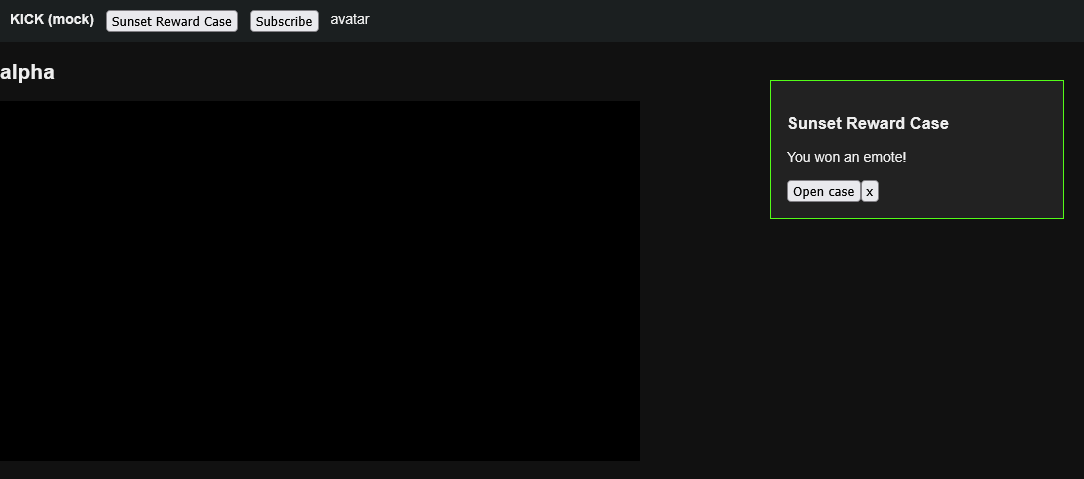
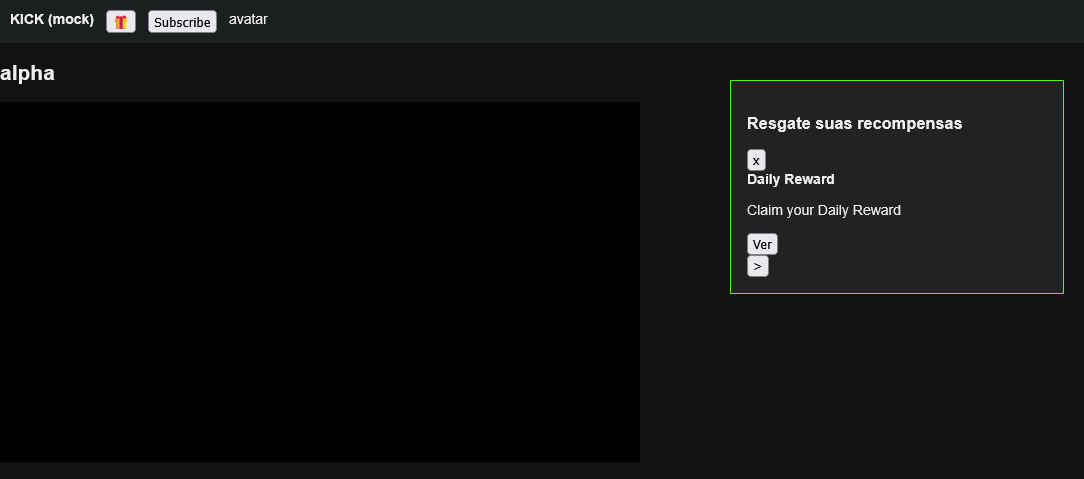
feat: verified against real Kick - rewards carousel, Resgate/Resgatar, 18+ gate, panel auto-close
- handle the rewards dialog carousel (Sunset Reward Case -> Daily Reward)
- recognise pt-BR wording (Resgate sua recompensa / Resgatar), skip aria-disabled buttons
- dismiss the 18+ gate outside dialogs; close the panel when nothing is claimable
- mock/e2e now mirror the real dialog (13 checks); add live_session dev tool

Changed region(s): [[0.6697, 0.2338, 0.8828, 0.5846], [0.0913, 0.0, 0.3349, 0.0877], [0.0, 0.1461, 0.0609, 0.1754]]

diff --git a/src/content.js b/src/content.js
@@ -137,13 +137,10 @@
     for (const b of document.querySelectorAll("button, [role=button]")) {
       if (!visible(b) || disabled(b)) continue;
       const t = labelOf(b);
-      if (t.length < 40 && C.matureWords.test(t) && !C.denyWords.test(t)) {
-        const scope = b.closest("[role=dialog], [class*=overlay], [class*=mature], [class*=modal]");
-        if (scope && /mature|18\+|age/i.test(scope.innerText || "")) {
-          click(b);
-          log(`Dismissed mature-content gate ("${t}")`);
-          return true;
-        }
+      if (t.length < 50 && C.matureWords.test(t) && !C.denyWords.test(t)) {
+        click(b);
+        log(`Dismissed mature-content gate ("${t}")`);
+        return true;
       }
     }
     return false;
@@ -194,6 +191,7 @@
     }
     // 2) standalone claim buttons that are themselves reward-flavoured
     for (const b of clickables(document)) {
+      if (b.getAttribute("aria-haspopup")) continue; // that's a panel trigger, handled by findTrigger()
       const t = labelOf(b);
       if (t.length < 60 && C.claimWords.test(t) && !C.denyWords.test(t)
           && (C.rewardWords.test(t) || C.rewardWords.test(hintOf(b)))) return { el: b, where: "inline", t };
@@ -216,14 +214,24 @@
     return null;
   }
 
-  function closeOurDialogs() {
-    for (const d of dialogs()) {
-      if (!C.rewardWords.test(d.innerText || "")) continue;
-      const x = [...d.querySelectorAll("button, [role=button]")].find((b) =>
-        /close|fechar|dismiss|×|✕|^x$/i.test(labelOf(b)));
-      if (x) click(x);
+  // The rewards dialog on kick.com is a carousel (Sunset Reward Case -> Daily Reward -> ...).
+  function rewardDialog() {
+    return dialogs().find((d) => C.rewardWords.test(d.innerText || "") && !/cookie/i.test(d.innerText || ""));
+  }
+  function closeRewardDialog() {
+    const d = rewardDialog();
+    if (d) {
+      const x = [...d.querySelectorAll("button, [role=button]")].find((b) => C.closeWords.test(labelOf(b)) ||
+        C.closeWords.test(b.getAttribute("aria-label") || ""));
+      if (x) { click(x); return; }
     }
     document.dispatchEvent(new KeyboardEvent("keydown", { key: "Escape", bubbles: true }));
+  }
+  function nextSlide(d) {
+    const n = [...d.querySelectorAll("button, [role=button]")].find((b) =>
+      visible(b) && !disabled(b) && C.nextSlideWords.test(b.getAttribute("aria-label") || ""));
+    if (n) click(n);
+    return !!n;
   }
 
   async function scanClaims() {
@@ -232,16 +240,28 @@
       if (Date.now() - run.lastClaimAt < 4000 || claimed.has(found.el)) return;
       claimed.add(found.el);
       run.lastClaimAt = Date.now();
+      const title = norm((found.el.closest("[role=dialog]") || document.body).innerText).slice(0, 60);
       click(found.el);
-      await log(`Clicked claim button "${found.t}" (${found.where})`);
-      await bump("claimedCount");
-      setTimeout(closeOurDialogs, 12000); // let the roulette animation finish
+      await log(`Clicked claim button "${found.t}" (${found.where}) | ${title}`);
+      if (found.where === "dialog") await bump("claimedCount");
+      run.slidesSeen = 0;
+      setTimeout(closeRewardDialog, 12000); // let the opening animation finish
       return;
     }
-    if (dialogs().some((d) => C.rewardWords.test(d.innerText || ""))) return; // already open, nothing claimable
+    const d = rewardDialog();
+    if (d) {
+      // Panel is open but nothing claimable on this slide: look at the other slides, then close it.
+      run.slidesSeen = (run.slidesSeen || 0) + 1;
+      if (run.slidesSeen <= 6 && nextSlide(d)) return;
+      await log("Rewards panel: nothing claimable right now (locked or already claimed); closing.");
+      run.slidesSeen = 0;
+      closeRewardDialog();
+      return;
+    }
     const trig = findTrigger();
     if (trig) {
       run.triggerClicks.set(trig.key, Date.now());
+      run.slidesSeen = 0;
       click(trig.el);
       await log(`Opened rewards panel via "${trig.key.slice(0, 40)}"`);
     }
@@ -320,6 +340,8 @@
     if (msg.type === "claimNow") return scanClaims().then(() => ({ ok: true }));
     if (msg.type === "dump") return Promise.resolve(dump());
   });
+
+  // @test-hook
 
   loadSettings().then(() => { if (S.enabled) log(`Active on ${currentSlug() || location.pathname}`); });
 })();

diff --git a/src/selectors.js b/src/selectors.js
@@ -19,14 +19,18 @@ window.KAW_CFG = {
 
   // Text on the button that actually claims / opens.
   claimWords:
-    /^\s*(claim|collect|open|redeem|get reward|resgatar|coletar|abrir|reivindicar|reclamar|recoger|abrir caja)\b/i,
+    /^\s*(claim|collect|open|redeem|get reward|resgatar|resgate|coletar|abrir|reivindicar|reclamar|recoger|abrir caja)\b/i,
 
   // Never click anything whose text matches this.
   denyWords:
     /(subscribe|subscription|gift|buy|purchase|follow|assinar|comprar|presente|donate|tip|cancel|report|block|ban)/i,
 
   // "Are you 18+?" style gates in front of the video.
-  matureWords: /(start watching|i am 18|i'm 18|18\+|continue|confirm|iniciar|tenho 18)/i,
+  matureWords: /(i am 18|i'm 18|18\+|18 anos|tenho 18|start watching|iniciar)/i,
+
+  // Carousel arrow inside the rewards dialog (Sunset Case -> Daily Reward -> ...).
+  nextSlideWords: /(pr[oó]xim[ao]|next)/i,
+  closeWords: /^(close|fechar|dismiss)$/i,
 
   // Hint attributes searched for reward triggers.
   triggerAttrs: ["aria-label", "title", "data-testid", "id", "class", "alt"],
@@ -41,6 +45,6 @@ window.KAW_CFG = {
   liveCheckMs: 20000,
   offlineChecksBeforeSwitch: 2,
   claimScanMs: 6000,
-  triggerCooldownMs: 120000,
+  triggerCooldownMs: 300000,
   stallReloadMs: 90000,
 };

diff --git a/scripts/live_session.py b/scripts/live_session.py
@@ -1,0 +1,64 @@
+"""Interactive Firefox session on the REAL kick.com using a dedicated profile (.test-profile).
+
+Command channel: write a line to <ctl>/cmd.txt, read the answer from <ctl>/out.txt.
+ commands: goto <url> | enable | disable | dump | claim | log | shot <name> | url | quit
+"""
+import json, subprocess, sys, time
+from pathlib import Path
+from selenium import webdriver
+from selenium.webdriver.firefox.options import Options
+
+ROOT = Path(__file__).resolve().parent.parent
+CTL = Path(sys.argv[1]); CTL.mkdir(parents=True, exist_ok=True)
+CMD, OUT = CTL / "cmd.txt", CTL / "out.txt"
+
+
+def say(x):
+    OUT.write_text(str(x), encoding="utf-8")
+
+
+subprocess.run([sys.executable, str(ROOT / "scripts/build.py"), "--live"], check=True)
+o = Options()
+o.binary_location = r"C:\Program Files\Mozilla Firefox\firefox.exe"
+o.set_preference("browser.startup.page", 3)  # keep session cookies/tabs across restarts
+o.add_argument("-profile"); o.add_argument(str(ROOT / ".test-profile"))
+d = webdriver.Firefox(options=o)
+d.install_addon(str(ROOT / "dist-live"), temporary=True)
+d.get("https://kick.com")
+say("ready")
+
+
+def hook(msg):
+    d.execute_script(
+        "window.__r=null; window.addEventListener('message',e=>{if(e.data&&e.data.kawResult)window.__r=e.data.kawResult});"
+        "window.postMessage(arguments[0], '*')", msg)
+    for _ in range(40):
+        r = d.execute_script("return window.__r")
+        if r: return r
+        time.sleep(0.25)
+    return "no answer from content script"
+
+
+while True:
+    if not CMD.exists():
+        time.sleep(0.5); continue
+    line = CMD.read_text(encoding="utf-8").strip(); CMD.unlink()
+    try:
+        c, _, a = line.partition(" ")
+        if c == "quit": break
+        elif c == "goto": d.get(a); time.sleep(4); say(d.current_url)
+        elif c == "reload":  # rebuild + reinstall the extension in the running browser (keeps login)
+            subprocess.run([sys.executable, str(ROOT / "scripts/build.py"), "--live"], check=True)
+            d.install_addon(str(ROOT / "dist-live"), temporary=True); d.refresh(); time.sleep(4); say("reloaded")
+        elif c == "eval": say(json.dumps(d.execute_script("return (" + a + ")"), ensure_ascii=False, indent=1))
+        elif c == "url": say(d.current_url + " | " + d.title)
+        elif c in ("enable", "disable"):
+            r = hook({"kawTest": "set", "data": {"enabled": c == "enable"}}); say(r["storage"]["enabled"] if isinstance(r, dict) else r)
+        elif c == "dump": say(json.dumps(hook({"kawTest": "dump"}), indent=1, ensure_ascii=False))
+        elif c == "claim": r = hook({"kawTest": "claim"}); say(json.dumps(r["storage"].get("log", [])[-8:], ensure_ascii=False) if isinstance(r, dict) else r)
+        elif c == "log": r = hook({"kawTest": "get"}); say(json.dumps(r["storage"].get("log", [])[-15:], ensure_ascii=False) if isinstance(r, dict) else r)
+        elif c == "shot": d.save_screenshot(str(CTL / f"{a or 'shot'}.png")); say("saved")
+        else: say("unknown command")
+    except Exception as e:
+        say(f"ERROR {type(e).__name__}: {e}")
+d.quit()

diff --git a/tests/mock_kick.py b/tests/mock_kick.py
@@ -12,17 +12,22 @@ PAGE = """<!doctype html><html><head><title>{slug} - Kick (mock)</title><style>
 body{{font:14px sans-serif;background:#111;color:#eee;margin:0}} header{{display:flex;gap:12px;padding:10px;background:#1b1f20}}
 #dlg{{position:fixed;top:80px;right:20px;background:#222;padding:16px;border:1px solid #53fc18;width:260px}}
 video{{width:640px;height:360px;background:#000}}</style></head><body>
-<header><b>KICK (mock)</b><button aria-label="Sunset Reward Case" id="case">Sunset Reward Case</button>
+<header><b>KICK (mock)</b><button aria-label="Resgate sua recompensa" aria-haspopup="dialog" id="case">&#127873;</button>
 <button id="sub">Subscribe</button><span>avatar</span></header>
 <main><h2>{slug}</h2><video id="v" muted loop></video>{offline}</main>
 <script>
-window.__claims=0;
+/* mimics the real kick.com rewards dialog: carousel [Sunset Reward Case (locked) -> Daily Reward (claimable)] */
 document.getElementById('case').onclick=()=>{{
   if(document.getElementById('dlg'))return;
   const d=document.createElement('div');d.id='dlg';d.setAttribute('role','dialog');
-  d.innerHTML='<h3>Sunset Reward Case</h3><p>Your case is ready</p><button id="claim">Open case</button><button aria-label="Close">x</button>';
+  d.style.cssText='position:fixed;top:80px;right:20px;background:#222;padding:16px;border:1px solid #53fc18;width:300px';
+  d.innerHTML='<h3>Resgate suas recompensas</h3><button aria-label="Close">x</button>'+
+   '<div id="s1"><b>Sunset Reward Case</b><p>Watch any stream for 3 hours</p><button aria-disabled="true">Resgatar</button><p>Assista por mais 44 minutos para resgatar.</p></div>'+
+   '<div id="s2" style="display:none"><b>Daily Reward</b><p>Claim your Daily Reward</p><button id="claim">Resgatar</button></div>'+
+   '<button aria-label="Próxima recompensa" id="nx">&gt;</button>';
   document.body.append(d);
-  d.querySelector('#claim').onclick=()=>{{fetch('/__claim',{{method:'POST'}});window.__claims++;d.querySelector('p').textContent='You won an emote!';}};
+  d.querySelector('#nx').onclick=()=>{{d.querySelector('#s1').style.display='none';d.querySelector('#s2').style.display='block';}};
+  d.querySelector('#claim').onclick=()=>{{fetch('/__claim',{{method:'POST'}});const c=d.querySelector('#claim');c.textContent='Ver';c.id='';}};
   d.querySelector('[aria-label=Close]').onclick=()=>d.remove();
 }};
 </script></body></html>"""
@@ -35,7 +40,7 @@ class H(BaseHTTPRequestHandler):
     def send(self, body, ctype="application/json", code=200):
         b = body.encode() if isinstance(body, str) else body
         self.send_response(code)
-        self.send_header("Content-Type", ctype)
+        self.send_header("Content-Type", ctype + ("; charset=utf-8" if ctype.startswith("text/") else ""))
         self.send_header("Content-Length", str(len(b)))
         self.end_headers()
         self.wfile.write(b)

diff --git a/scripts/build.py b/scripts/build.py
@@ -11,6 +11,7 @@ SRC = ROOT / "src"
 
 
 def main():
+    live = "--live" in sys.argv
     test = "--test" in sys.argv
     manifest = json.loads((SRC / "manifest.json").read_text(encoding="utf-8"))
 
@@ -37,6 +38,22 @@ def main():
                     " if (t === 'set') await browser.storage.local.set(e.data.data);"
                     " window.postMessage({ kawResult: await browser.storage.local.get(null) }, '*'); });\n")
         print("test build ->", out)
+        return
+
+    if live:  # real kick.com, normal timers, plus a debugging hook (never shipped)
+        out = ROOT / "dist-live"
+        shutil.rmtree(out, ignore_errors=True)
+        shutil.copytree(SRC, out)
+        hook = (
+            "window.addEventListener('message', async (e) => { const t = e.data && e.data.kawTest; if (!t) return;"
+            " let r = {}; if (t === 'set') await browser.storage.local.set(e.data.data);"
+            " if (t === 'dump') r = dump(); if (t === 'claim') { await scanClaims(); }"
+            " r.storage = await browser.storage.local.get(null);"
+            " window.postMessage({ kawResult: JSON.parse(JSON.stringify(r)) }, '*'); });"
+        )
+        c = (out / "content.js").read_text(encoding="utf-8").replace("// @test-hook", hook, 1)
+        (out / "content.js").write_text(c, encoding="utf-8")
+        print("live build ->", out)
         return
 
     out = ROOT / "dist"

diff --git a/tests/e2e.py b/tests/e2e.py
@@ -99,9 +99,11 @@ def main():
         # 2. toggle ON -> auto-claim
         ext_storage(d, {"enabled": True})
         d.get(BASE + "/alpha")
-        check("ON: reward panel opened + 'Open case' clicked", wait(lambda: state()["claims"] >= 1),
+        check("ON: panel opened, locked Sunset slide skipped, Daily 'Resgatar' clicked", wait(lambda: state()["claims"] >= 1),
               f"claims={state()['claims']}")
         shot(d, "auto-claim.png", (1100, 560))
+        time.sleep(1)
+        check("reward panel closed afterwards", wait(lambda: not d.find_elements(By.ID, "dlg"), 20))
         n = state()["claims"]
         time.sleep(4)
         check("claim is not spammed", state()["claims"] - n <= 1, f"{n}->{state()['claims']}")

diff --git a/README.md b/README.md
@@ -25,7 +25,7 @@ O Firefox estável só instala extensões **assinadas** pela Mozilla. Duas forma
 - **Assinar (grátis, não publica):** crie chaves em <https://addons.mozilla.org/developers/addon/api/key/> e rode  
   `npx web-ext sign --source-dir src --channel unlisted --api-key <JWT issuer> --api-secret <JWT secret>`  
   O `.xpi` assinado instala com *arrastar para o Firefox* e é permanente.
-- **Firefox Developer Edition / Nightly / ESR:** em `about:config` defina `xpinstall.signatures.required = false` e instale `dist/kick-autowatch-1.0.0.xpi` em `about:addons` → engrenagem → *Instalar a partir de arquivo*.
+- **Firefox Developer Edition / Nightly / ESR:** em `about:config` defina `xpinstall.signatures.required = false` e instale `dist/kick-autowatch-1.1.0.xpi` em `about:addons` → engrenagem → *Instalar a partir de arquivo*.
 
 ## Uso
 1. Abra uma live na Kick (e faça login – as recompensas exigem conta).
@@ -45,12 +45,13 @@ Veja [docs/HOW_IT_WORKS.md](docs/HOW_IT_WORKS.md). Resumo:
 ```bash
 python scripts/build.py          # gera dist/kick-autowatch-<versão>.xpi
 pip install selenium
-python tests/e2e.py --shots      # Firefox real + Kick falso (12 checagens) e regenera os prints
+python tests/e2e.py --shots      # Firefox real + Kick falso (13 checagens) e regenera os prints
 ```
 Estrutura: `src/` (extensão), `tests/` (mock + e2e), `scripts/` (build), `docs/`.
 
 ## Limitações
-- **Não testado contra a Kick real logado.** A Kick não tem API pública para claim; o claim é feito clicando na interface, com heurísticas de texto/atributos. Se a Kick mudar o markup, ajuste `src/selectors.js` (e use *Copy diagnostics* para ver o que a extensão enxerga). Os endpoints de live foram verificados contra a Kick real.
+- **Verificado na Kick real (conta logada, interface em português):** a extensão abriu o painel *Resgate suas recompensas* (botão `aria-label="Resgate sua recompensa"`), clicou em *Resgatar* e a **Daily Reward foi resgatada**. O painel é um carrossel (Sunset Reward Case → Daily Reward); a extensão percorre as páginas e fecha o painel quando nada está liberado. Botões bloqueados (`aria-disabled="true"`, "Assista por mais N minutos") são ignorados.
+- **Ainda não visto ao vivo:** o clique final no *Sunset Reward Case* (estava a ~44 min de liberar durante o teste) e o texto exato do botão depois de liberado. Se a Kick mudar o markup ou o texto, ajuste `src/selectors.js` (use *Copy diagnostics* para ver o que a extensão enxerga).
 - O Sunset Reward Case exige 3 h assistindo por dia; a aba precisa ficar aberta com o vídeo tocando.
 - Automatizar cliques pode contrariar os termos da Kick; use por sua conta e risco. Projeto não afiliado à Kick.
 
